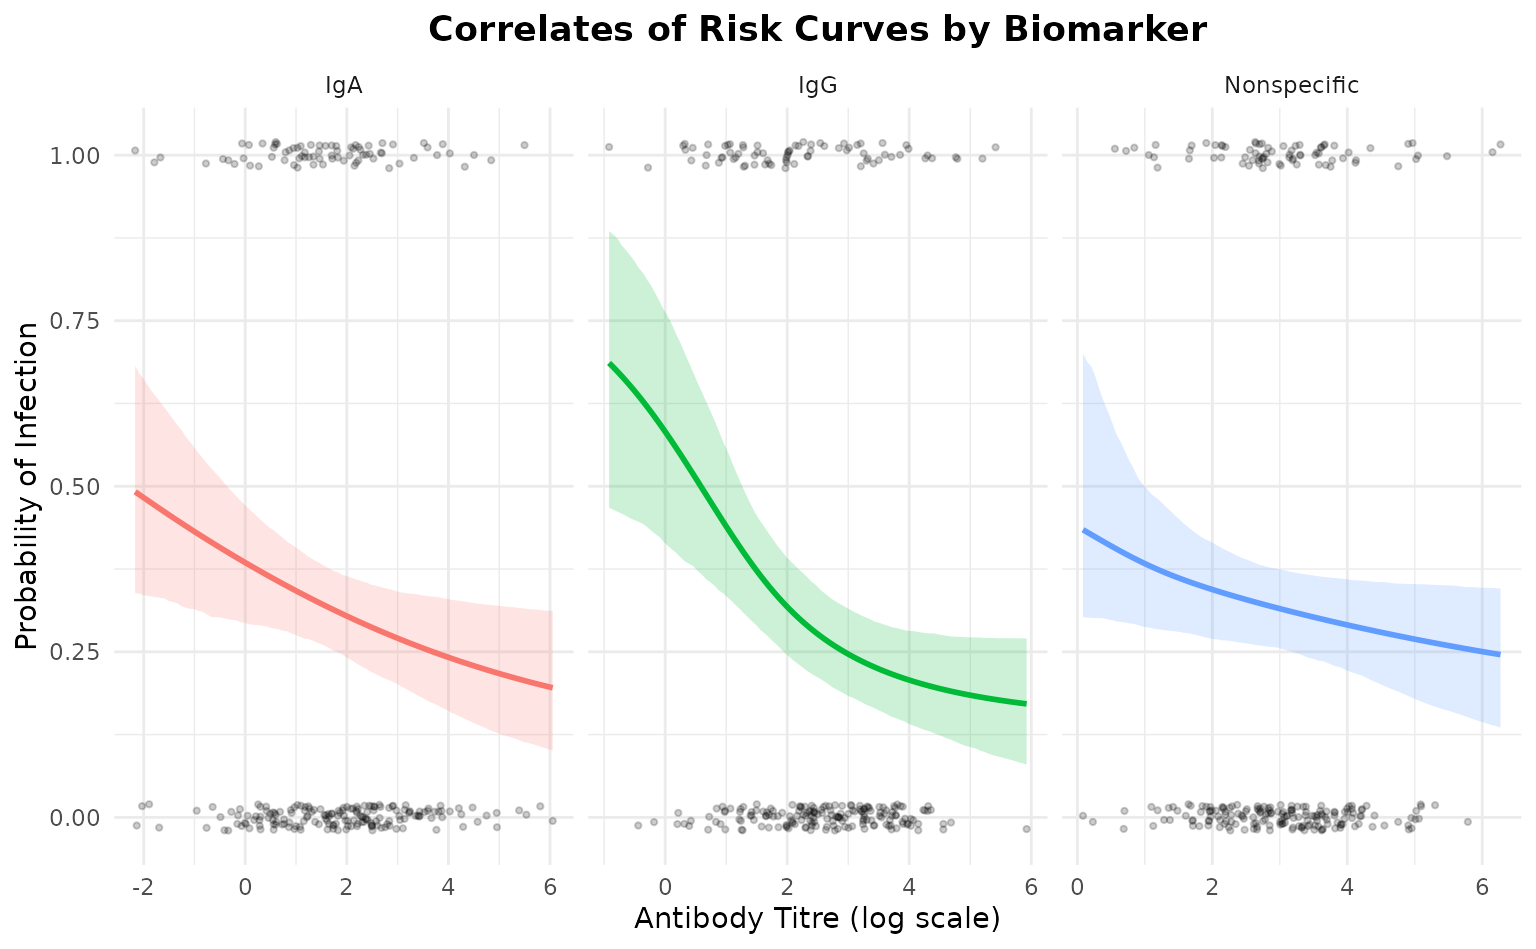
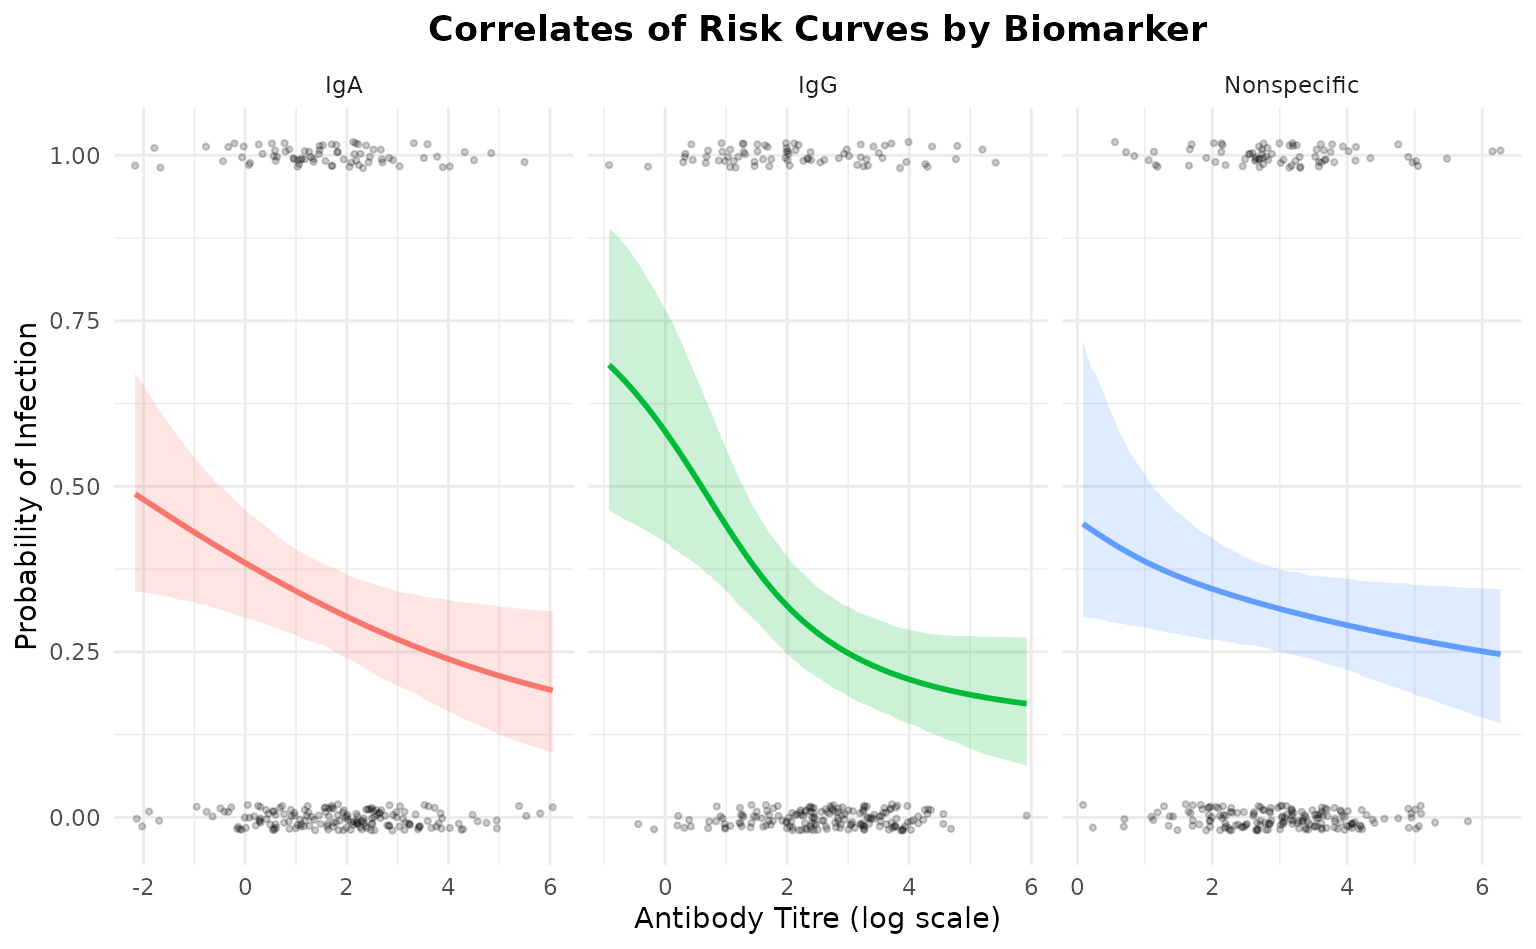
Deploying to gh-pages from @ seroanalytics/seroCOP@bad2847d3bd5c3df9c1f0d958d1b280f6706454d 🚀

diff --git a/articles/multi-biomarker.html b/articles/multi-biomarker.html
@@ -224,19 +224,9 @@ all biomarkers:</p>
 <span>  cores   <span class="op">=</span> <span class="fl">1</span>,</span>
 <span>  refresh <span class="op">=</span> <span class="fl">0</span></span>
 <span><span class="op">)</span></span>
-<span><span class="co">#&gt; Warning: Tail Effective Samples Size (ESS) is too low, indicating posterior variances and tail quantiles may be unreliable.</span></span>
-<span><span class="co">#&gt; Running the chains for more iterations may help. See</span></span>
-<span><span class="co">#&gt; https://mc-stan.org/misc/warnings.html#tail-ess</span></span>
-<span><span class="co">#&gt; Warning: There were 2 divergent transitions after warmup. See</span></span>
-<span><span class="co">#&gt; https://mc-stan.org/misc/warnings.html#divergent-transitions-after-warmup</span></span>
-<span><span class="co">#&gt; to find out why this is a problem and how to eliminate them.</span></span>
-<span><span class="co">#&gt; Warning: Examine the pairs() plot to diagnose sampling problems</span></span>
 <span><span class="co">#&gt; Warning: Bulk Effective Samples Size (ESS) is too low, indicating posterior means and medians may be unreliable.</span></span>
 <span><span class="co">#&gt; Running the chains for more iterations may help. See</span></span>
-<span><span class="co">#&gt; https://mc-stan.org/misc/warnings.html#bulk-ess</span></span>
-<span><span class="co">#&gt; Warning: Tail Effective Samples Size (ESS) is too low, indicating posterior variances and tail quantiles may be unreliable.</span></span>
-<span><span class="co">#&gt; Running the chains for more iterations may help. See</span></span>
-<span><span class="co">#&gt; https://mc-stan.org/misc/warnings.html#tail-ess</span></span></code></pre></div>
+<span><span class="co">#&gt; https://mc-stan.org/misc/warnings.html#bulk-ess</span></span></code></pre></div>
 </div>
 <div class="section level2">
 <h2 id="compare-biomarkers">Compare Biomarkers<a class="anchor" aria-label="anchor" href="#compare-biomarkers"></a>
@@ -284,27 +274,27 @@ within the model as <code>1 - (prob_infection / ceiling)</code>.</p>
 <span><span class="co">#&gt; </span></span>
 <span><span class="co">#&gt; === IgG ===</span></span>
 <span><span class="co">#&gt;      titre correlate_of_risk correlate_of_protection</span></span>
-<span><span class="co">#&gt; 1 3.244908         0.2347674               0.7255507</span></span>
-<span><span class="co">#&gt; 2 2.542770         0.2738539               0.6796727</span></span>
-<span><span class="co">#&gt; 3 3.427785         0.2270026               0.7346378</span></span>
-<span><span class="co">#&gt; 4 4.026987         0.2065202               0.7585841</span></span>
-<span><span class="co">#&gt; 5 2.945171         0.2494482               0.7083474</span></span>
+<span><span class="co">#&gt; 1 3.244908         0.2361437               0.7227452</span></span>
+<span><span class="co">#&gt; 2 2.542770         0.2752986               0.6768291</span></span>
+<span><span class="co">#&gt; 3 3.427785         0.2283278               0.7318910</span></span>
+<span><span class="co">#&gt; 4 4.026987         0.2076328               0.7560922</span></span>
+<span><span class="co">#&gt; 5 2.945171         0.2508829               0.7054826</span></span>
 <span><span class="co">#&gt; </span></span>
 <span><span class="co">#&gt; === IgA ===</span></span>
 <span><span class="co">#&gt;      titre correlate_of_risk correlate_of_protection</span></span>
-<span><span class="co">#&gt; 1 2.835740         0.2756880               0.6329061</span></span>
-<span><span class="co">#&gt; 2 2.701161         0.2800235               0.6272370</span></span>
-<span><span class="co">#&gt; 3 2.604183         0.2832002               0.6230876</span></span>
-<span><span class="co">#&gt; 4 3.136495         0.2663044               0.6452002</span></span>
-<span><span class="co">#&gt; 5 1.077544         0.3389942               0.5508655</span></span>
+<span><span class="co">#&gt; 1 2.835740         0.2741801               0.6295343</span></span>
+<span><span class="co">#&gt; 2 2.701161         0.2786355               0.6235856</span></span>
+<span><span class="co">#&gt; 3 2.604183         0.2818967               0.6192387</span></span>
+<span><span class="co">#&gt; 4 3.136495         0.2645206               0.6424684</span></span>
+<span><span class="co">#&gt; 5 1.077544         0.3385873               0.5447430</span></span>
 <span><span class="co">#&gt; </span></span>
 <span><span class="co">#&gt; === Nonspecific ===</span></span>
 <span><span class="co">#&gt;      titre correlate_of_risk correlate_of_protection</span></span>
-<span><span class="co">#&gt; 1 1.706775         0.3539411               0.4925204</span></span>
-<span><span class="co">#&gt; 2 4.967871         0.2697323               0.6090294</span></span>
-<span><span class="co">#&gt; 3 3.522967         0.3018876               0.5636017</span></span>
-<span><span class="co">#&gt; 4 3.957672         0.2915523               0.5781026</span></span>
-<span><span class="co">#&gt; 5 4.374356         0.2821931               0.5913181</span></span></code></pre></div>
+<span><span class="co">#&gt; 1 1.706775         0.3556245               0.5087153</span></span>
+<span><span class="co">#&gt; 2 4.967871         0.2696618               0.6232863</span></span>
+<span><span class="co">#&gt; 3 3.522967         0.3014781               0.5798312</span></span>
+<span><span class="co">#&gt; 4 3.957672         0.2911410               0.5938306</span></span>
+<span><span class="co">#&gt; 5 4.374356         0.2818770               0.6064758</span></span></code></pre></div>
 <div class="section level4">
 <h4 id="correlate-of-protection-curves">Correlate of Protection Curves<a class="anchor" aria-label="anchor" href="#correlate-of-protection-curves"></a>
 </h4>
@@ -367,9 +357,9 @@ titre for each biomarker.</p>
 <span><span class="co">#&gt; === Biomarker Comparison ===</span></span>
 <span><span class="co">#&gt; </span></span>
 <span><span class="co">#&gt;    biomarker       auc auc_lower auc_upper     brier  loo_elpd   loo_se</span></span>
-<span><span class="co">#&gt;          IgG 0.6160012 0.5350460 0.6969564 0.2025755 -151.1641 6.857686</span></span>
-<span><span class="co">#&gt;          IgA 0.5559589 0.4795334 0.6323843 0.2106057 -154.7907 5.981920</span></span>
-<span><span class="co">#&gt;  Nonspecific 0.5062008 0.4277909 0.5846108 0.2126552 -155.9454 5.800861</span></span></code></pre></div>
+<span><span class="co">#&gt;          IgG 0.6160012 0.5350460 0.6969564 0.2025953 -151.1798 6.815844</span></span>
+<span><span class="co">#&gt;          IgA 0.5559589 0.4795334 0.6323843 0.2105783 -154.7471 6.026969</span></span>
+<span><span class="co">#&gt;  Nonspecific 0.5062008 0.4277909 0.5846108 0.2127073 -156.0191 5.795089</span></span></code></pre></div>
 <p>The comparison table shows:</p>
 <ul>
 <li>
@@ -394,9 +384,9 @@ performance:</p>
 <span><span class="co">#&gt; === Biomarker Comparison ===</span></span>
 <span><span class="co">#&gt; </span></span>
 <span><span class="co">#&gt;    biomarker       auc auc_lower auc_upper     brier  loo_elpd   loo_se</span></span>
-<span><span class="co">#&gt;          IgG 0.6160012 0.5350460 0.6969564 0.2025755 -151.1641 6.857686</span></span>
-<span><span class="co">#&gt;          IgA 0.5559589 0.4795334 0.6323843 0.2106057 -154.7907 5.981920</span></span>
-<span><span class="co">#&gt;  Nonspecific 0.5062008 0.4277909 0.5846108 0.2126552 -155.9454 5.800861</span></span>
+<span><span class="co">#&gt;          IgG 0.6160012 0.5350460 0.6969564 0.2025953 -151.1798 6.815844</span></span>
+<span><span class="co">#&gt;          IgA 0.5559589 0.4795334 0.6323843 0.2105783 -154.7471 6.026969</span></span>
+<span><span class="co">#&gt;  Nonspecific 0.5062008 0.4277909 0.5846108 0.2127073 -156.0191 5.795089</span></span>
 <span><span class="co">#&gt; `height` was translated to `width`.</span></span></code></pre></div>
 <p><img src="multi-biomarker_files/figure-html/plot-comparison-1.png" class="r-plt" alt="" width="768"></p>
 <p>Interpretation:</p>
@@ -440,10 +430,10 @@ biomarker:</p>
 <span><span class="co">#&gt; </span></span>
 <span><span class="co">#&gt; Estimated parameters:</span></span>
 <span><span class="co">#&gt;   parameter      mean        lower     upper</span></span>
-<span><span class="co">#&gt; 1     floor 0.1663261  0.005631141 0.3308477</span></span>
-<span><span class="co">#&gt; 2   ceiling 0.8698155  0.603358369 0.9953584</span></span>
-<span><span class="co">#&gt; 3      ec50 0.5219901 -0.953507706 1.9079285</span></span>
-<span><span class="co">#&gt; 4     slope 0.9606037  0.275184144 2.4329137</span></span>
+<span><span class="co">#&gt; 1     floor 0.1665209  0.007073934 0.3441975</span></span>
+<span><span class="co">#&gt; 2   ceiling 0.8665549  0.617729392 0.9956553</span></span>
+<span><span class="co">#&gt; 3      ec50 0.5297452 -0.929795602 1.8286675</span></span>
+<span><span class="co">#&gt; 4     slope 0.9468906  0.254941632 2.2490300</span></span>
 <span><span class="co">#&gt; </span></span>
 <span><span class="co">#&gt; True parameters:</span></span>
 <span><span class="co">#&gt;   floor:   0.020</span></span>
@@ -454,11 +444,11 @@ biomarker:</p>
 <span><span class="co">#&gt; === IgA ===</span></span>
 <span><span class="co">#&gt; </span></span>
 <span><span class="co">#&gt; Estimated parameters:</span></span>
-<span><span class="co">#&gt;   parameter       mean        lower     upper</span></span>
-<span><span class="co">#&gt; 1     floor  0.1026085  0.003048993 0.3291540</span></span>
-<span><span class="co">#&gt; 2   ceiling  0.7814973  0.501236527 0.9908882</span></span>
-<span><span class="co">#&gt; 3      ec50 -0.5359930 -3.648999475 3.3612132</span></span>
-<span><span class="co">#&gt; 4     slope  0.3733673  0.048007922 1.6889290</span></span>
+<span><span class="co">#&gt;   parameter        mean        lower     upper</span></span>
+<span><span class="co">#&gt; 1     floor  0.09783226  0.002067443 0.3236621</span></span>
+<span><span class="co">#&gt; 2   ceiling  0.77328709  0.487008360 0.9873291</span></span>
+<span><span class="co">#&gt; 3      ec50 -0.43639670 -3.578266925 3.6236774</span></span>
+<span><span class="co">#&gt; 4     slope  0.35390517  0.052806658 1.4460100</span></span>
 <span><span class="co">#&gt; </span></span>
 <span><span class="co">#&gt; True parameters:</span></span>
 <span><span class="co">#&gt;   floor:   0.150</span></span>
@@ -470,10 +460,10 @@ biomarker:</p>
 <span><span class="co">#&gt; </span></span>
 <span><span class="co">#&gt; Estimated parameters:</span></span>
 <span><span class="co">#&gt;   parameter      mean        lower     upper</span></span>
-<span><span class="co">#&gt; 1     floor 0.1103280  0.003075622 0.3512412</span></span>
-<span><span class="co">#&gt; 2   ceiling 0.7189284  0.503822513 0.9899859</span></span>
-<span><span class="co">#&gt; 3      ec50 1.6731040 -1.106181101 5.1188957</span></span>
-<span><span class="co">#&gt; 4     slope 0.4801293  0.008796880 3.0561416</span></span>
+<span><span class="co">#&gt; 1     floor 0.1246484  0.002485096 0.3638726</span></span>
+<span><span class="co">#&gt; 2   ceiling 0.7486946  0.510402766 0.9915895</span></span>
+<span><span class="co">#&gt; 3      ec50 1.3734446 -1.448496407 4.8448851</span></span>
+<span><span class="co">#&gt; 4     slope 0.5745722  0.012398412 3.1911891</span></span>
 <span><span class="co">#&gt; </span></span>
 <span><span class="co">#&gt; True parameters:</span></span>
 <span><span class="co">#&gt;   floor:   0.350</span></span>
@@ -589,12 +579,12 @@ biomarker:</p>
 <span><span class="co">#&gt; Computed from 2000 by 250 log-likelihood matrix.</span></span>
 <span><span class="co">#&gt; </span></span>
 <span><span class="co">#&gt;          Estimate   SE</span></span>
-<span><span class="co">#&gt; elpd_loo   -151.2  6.9</span></span>
+<span><span class="co">#&gt; elpd_loo   -151.2  6.8</span></span>
 <span><span class="co">#&gt; p_loo         2.5  0.2</span></span>
-<span><span class="co">#&gt; looic       302.3 13.7</span></span>
+<span><span class="co">#&gt; looic       302.4 13.6</span></span>
 <span><span class="co">#&gt; ------</span></span>
 <span><span class="co">#&gt; MCSE of elpd_loo is 0.1.</span></span>
-<span><span class="co">#&gt; MCSE and ESS estimates assume MCMC draws (r_eff in [0.3, 0.8]).</span></span>
+<span><span class="co">#&gt; MCSE and ESS estimates assume MCMC draws (r_eff in [0.3, 0.9]).</span></span>
 <span><span class="co">#&gt; </span></span>
 <span><span class="co">#&gt; All Pareto k estimates are good (k &lt; 0.7).</span></span>
 <span><span class="co">#&gt; See help('pareto-k-diagnostic') for details.</span></span>
@@ -604,12 +594,12 @@ biomarker:</p>
 <span><span class="co">#&gt; Computed from 2000 by 250 log-likelihood matrix.</span></span>
 <span><span class="co">#&gt; </span></span>
 <span><span class="co">#&gt;          Estimate   SE</span></span>
-<span><span class="co">#&gt; elpd_loo   -154.8  6.0</span></span>
+<span><span class="co">#&gt; elpd_loo   -154.7  6.0</span></span>
 <span><span class="co">#&gt; p_loo         1.9  0.1</span></span>
-<span><span class="co">#&gt; looic       309.6 12.0</span></span>
+<span><span class="co">#&gt; looic       309.5 12.1</span></span>
 <span><span class="co">#&gt; ------</span></span>
 <span><span class="co">#&gt; MCSE of elpd_loo is 0.0.</span></span>
-<span><span class="co">#&gt; MCSE and ESS estimates assume MCMC draws (r_eff in [0.4, 0.9]).</span></span>
+<span><span class="co">#&gt; MCSE and ESS estimates assume MCMC draws (r_eff in [0.5, 0.8]).</span></span>
 <span><span class="co">#&gt; </span></span>
 <span><span class="co">#&gt; All Pareto k estimates are good (k &lt; 0.7).</span></span>
 <span><span class="co">#&gt; See help('pareto-k-diagnostic') for details.</span></span>
@@ -619,12 +609,12 @@ biomarker:</p>
 <span><span class="co">#&gt; Computed from 2000 by 250 log-likelihood matrix.</span></span>
 <span><span class="co">#&gt; </span></span>
 <span><span class="co">#&gt;          Estimate   SE</span></span>
-<span><span class="co">#&gt; elpd_loo   -155.9  5.8</span></span>
+<span><span class="co">#&gt; elpd_loo   -156.0  5.8</span></span>
 <span><span class="co">#&gt; p_loo         1.8  0.1</span></span>
-<span><span class="co">#&gt; looic       311.9 11.6</span></span>
+<span><span class="co">#&gt; looic       312.0 11.6</span></span>
 <span><span class="co">#&gt; ------</span></span>
 <span><span class="co">#&gt; MCSE of elpd_loo is 0.1.</span></span>
-<span><span class="co">#&gt; MCSE and ESS estimates assume MCMC draws (r_eff in [0.1, 0.6]).</span></span>
+<span><span class="co">#&gt; MCSE and ESS estimates assume MCMC draws (r_eff in [0.2, 0.6]).</span></span>
 <span><span class="co">#&gt; </span></span>
 <span><span class="co">#&gt; All Pareto k estimates are good (k &lt; 0.7).</span></span>
 <span><span class="co">#&gt; See help('pareto-k-diagnostic') for details.</span></span></code></pre></div>

diff --git a/articles/hierarchical-groups.html b/articles/hierarchical-groups.html
@@ -270,7 +270,7 @@ baseline attack rate to differ by group.</p>
 <span>  chains        <span class="op">=</span> <span class="fl">4</span>,</span>
 <span>  iter          <span class="op">=</span> <span class="fl">2000</span>,</span>
 <span>  warmup        <span class="op">=</span> <span class="fl">1000</span>,</span>
-<span>  cores         <span class="op">=</span> <span class="fl">4</span>,</span>
+<span>  cores         <span class="op">=</span> <span class="fl">1</span>,</span>
 <span>  ceiling_group <span class="op">=</span> <span class="cn">FALSE</span>,   <span class="co"># shared ceiling (default)</span></span>
 <span>  refresh       <span class="op">=</span> <span class="fl">0</span></span>
 <span><span class="op">)</span></span></code></pre></div>
@@ -327,16 +327,16 @@ overall effectiveness across age groups.</p>
 <div class="sourceCode" id="cb8"><pre class="downlit sourceCode r">
 <code class="sourceCode R"><span><span class="va">group_params</span> <span class="op">&lt;-</span> <span class="va">hier_model</span><span class="op">$</span><span class="fu">extract_group_parameters</span><span class="op">(</span><span class="op">)</span></span>
 <span><span class="fu"><a href="https://rdrr.io/r/base/print.html" class="external-link">print</a></span><span class="op">(</span><span class="va">group_params</span><span class="op">)</span></span>
-<span><span class="co">#&gt;          group parameter      mean    median         sd          q025      q975</span></span>
-<span><span class="co">#&gt; 1 Young adults   ceiling 0.7574206 0.7597347 0.06732319  0.6189448979 0.8821424</span></span>
-<span><span class="co">#&gt; 2 Young adults      ec50 1.6210718 1.6296821 0.16866424  1.2602080427 1.9378044</span></span>
-<span><span class="co">#&gt; 3 Young adults     slope 4.2621285 3.9282477 1.84128797  1.7459040511 8.7837355</span></span>
-<span><span class="co">#&gt; 4  Middle-aged   ceiling 0.7574206 0.7597347 0.06732319  0.6189448979 0.8821424</span></span>
-<span><span class="co">#&gt; 5  Middle-aged      ec50 1.2364724 1.3376212 0.67185811 -0.2920516634 2.3275827</span></span>
-<span><span class="co">#&gt; 6  Middle-aged     slope 0.7529185 0.6304040 0.51584788  0.2511784229 2.0887172</span></span>
-<span><span class="co">#&gt; 7 Older adults   ceiling 0.7574206 0.7597347 0.06732319  0.6189448979 0.8821424</span></span>
-<span><span class="co">#&gt; 8 Older adults      ec50 2.0761263 1.9699188 0.94081501  0.2698394824 3.9890990</span></span>
-<span><span class="co">#&gt; 9 Older adults     slope 0.6570104 0.5220733 0.61975607  0.0006603123 2.2711773</span></span></code></pre></div>
+<span><span class="co">#&gt;          group parameter      mean    median         sd         q025      q975</span></span>
+<span><span class="co">#&gt; 1 Young adults   ceiling 0.7535608 0.7562615 0.06530828  0.616718632 0.8736953</span></span>
+<span><span class="co">#&gt; 2 Young adults      ec50 1.6228170 1.6269624 0.16381614  1.273193288 1.9407667</span></span>
+<span><span class="co">#&gt; 3 Young adults     slope 4.2703235 3.9450179 1.76451069  1.802135171 8.6867585</span></span>
+<span><span class="co">#&gt; 4  Middle-aged   ceiling 0.7535608 0.7562615 0.06530828  0.616718632 0.8736953</span></span>
+<span><span class="co">#&gt; 5  Middle-aged      ec50 1.2456847 1.3545520 0.68539125 -0.438686108 2.3425992</span></span>
+<span><span class="co">#&gt; 6  Middle-aged     slope 0.7637980 0.6446116 0.51850845  0.259426276 2.0535662</span></span>
+<span><span class="co">#&gt; 7 Older adults   ceiling 0.7535608 0.7562615 0.06530828  0.616718632 0.8736953</span></span>
+<span><span class="co">#&gt; 8 Older adults      ec50 2.1579099 2.0386108 0.95894496  0.453728701 4.1092192</span></span>
+<span><span class="co">#&gt; 9 Older adults     slope 0.6560202 0.5138150 0.60495916 -0.004831226 2.3138291</span></span></code></pre></div>
 <p>Key observations:</p>
 <ul>
 <li>
@@ -365,11 +365,11 @@ need higher titres for equivalent protection</li>
 <span><span class="co">#&gt;   ROC AUC (marginalised):        0.807</span></span>
 <span><span class="co">#&gt;   ROC AUC (within-group wtd):    0.812</span></span>
 <span><span class="co">#&gt;   Brier Score:                   0.136</span></span>
-<span><span class="co">#&gt;   LOO ELPD:                      -125.81 (SE: 9.05)</span></span>
+<span><span class="co">#&gt;   LOO ELPD:                      -125.64 (SE: 9.03)</span></span>
 <span><span class="co">#&gt;   LOO ELPD by group:</span></span>
-<span><span class="co">#&gt;     Young adults           -46.33 (SE: 6.35, n = 150)</span></span>
-<span><span class="co">#&gt;     Middle-aged            -49.20 (SE: 5.42, n = 90)</span></span>
-<span><span class="co">#&gt;     Older adults           -30.28 (SE: 2.57, n = 45)</span></span></code></pre></div>
+<span><span class="co">#&gt;     Young adults           -46.12 (SE: 6.30, n = 150)</span></span>
+<span><span class="co">#&gt;     Middle-aged            -49.23 (SE: 5.45, n = 90)</span></span>
+<span><span class="co">#&gt;     Older adults           -30.29 (SE: 2.53, n = 45)</span></span></code></pre></div>
 <p>The per-group LOO-ELPD breakdown shows how much each age group
 contributes to (or detracts from) overall model fit. A lower ELPD for a
 group indicates the model fits that group less well — often because it
@@ -388,7 +388,7 @@ has fewer participants or a weaker signal.</p>
 <span>  chains  <span class="op">=</span> <span class="fl">4</span>,</span>
 <span>  iter    <span class="op">=</span> <span class="fl">2000</span>,</span>
 <span>  warmup  <span class="op">=</span> <span class="fl">1000</span>,</span>
-<span>  cores   <span class="op">=</span> <span class="fl">4</span>,</span>
+<span>  cores   <span class="op">=</span> <span class="fl">1</span>,</span>
 <span>  refresh <span class="op">=</span> <span class="fl">0</span></span>
 <span><span class="op">)</span></span></code></pre></div>
 <div class="sourceCode" id="cb11"><pre class="downlit sourceCode r">
@@ -401,12 +401,12 @@ has fewer participants or a weaker signal.</p>
 <span><span class="fu"><a href="https://rdrr.io/r/base/cat.html" class="external-link">cat</a></span><span class="op">(</span><span class="st">"=== Model Comparison (LOO-CV) ===\n"</span><span class="op">)</span></span>
 <span><span class="co">#&gt; === Model Comparison (LOO-CV) ===</span></span>
 <span><span class="fu"><a href="https://rdrr.io/r/base/cat.html" class="external-link">cat</a></span><span class="op">(</span><span class="fu"><a href="https://rdrr.io/r/base/sprintf.html" class="external-link">sprintf</a></span><span class="op">(</span><span class="st">"Hierarchical ELPD: %.2f (SE: %.2f)\n"</span>, <span class="va">hier_loo</span><span class="op">[</span><span class="st">"Estimate"</span><span class="op">]</span>,   <span class="va">hier_loo</span><span class="op">[</span><span class="st">"SE"</span><span class="op">]</span><span class="op">)</span><span class="op">)</span></span>
-<span><span class="co">#&gt; Hierarchical ELPD: -125.81 (SE: 9.05)</span></span>
+<span><span class="co">#&gt; Hierarchical ELPD: -125.64 (SE: 9.03)</span></span>
 <span><span class="fu"><a href="https://rdrr.io/r/base/cat.html" class="external-link">cat</a></span><span class="op">(</span><span class="fu"><a href="https://rdrr.io/r/base/sprintf.html" class="external-link">sprintf</a></span><span class="op">(</span><span class="st">"Pooled       ELPD: %.2f (SE: %.2f)\n"</span>, <span class="va">pooled_loo</span><span class="op">[</span><span class="st">"Estimate"</span><span class="op">]</span>, <span class="va">pooled_loo</span><span class="op">[</span><span class="st">"SE"</span><span class="op">]</span><span class="op">)</span><span class="op">)</span></span>
-<span><span class="co">#&gt; Pooled       ELPD: -134.76 (SE: 9.49)</span></span>
+<span><span class="co">#&gt; Pooled       ELPD: -134.95 (SE: 9.45)</span></span>
 <span><span class="fu"><a href="https://rdrr.io/r/base/cat.html" class="external-link">cat</a></span><span class="op">(</span><span class="fu"><a href="https://rdrr.io/r/base/sprintf.html" class="external-link">sprintf</a></span><span class="op">(</span><span class="st">"Difference:        %.2f (SE: %.2f)  |  Z = %.2f\n"</span>,</span>
 <span>            <span class="va">loo_diff</span>, <span class="va">loo_se</span>, <span class="va">loo_diff</span> <span class="op">/</span> <span class="va">loo_se</span><span class="op">)</span><span class="op">)</span></span>
-<span><span class="co">#&gt; Difference:        8.94 (SE: 13.12)  |  Z = 0.68</span></span>
+<span><span class="co">#&gt; Difference:        9.31 (SE: 13.07)  |  Z = 0.71</span></span>
 <span></span>
 <span><span class="kw">if</span> <span class="op">(</span><span class="va">loo_diff</span> <span class="op">&gt;</span> <span class="fl">2</span> <span class="op">*</span> <span class="va">loo_se</span><span class="op">)</span> <span class="op">{</span></span>
 <span>  <span class="fu"><a href="https://rdrr.io/r/base/cat.html" class="external-link">cat</a></span><span class="op">(</span><span class="st">"-&gt; Strong evidence favouring hierarchical model\n"</span><span class="op">)</span></span>
